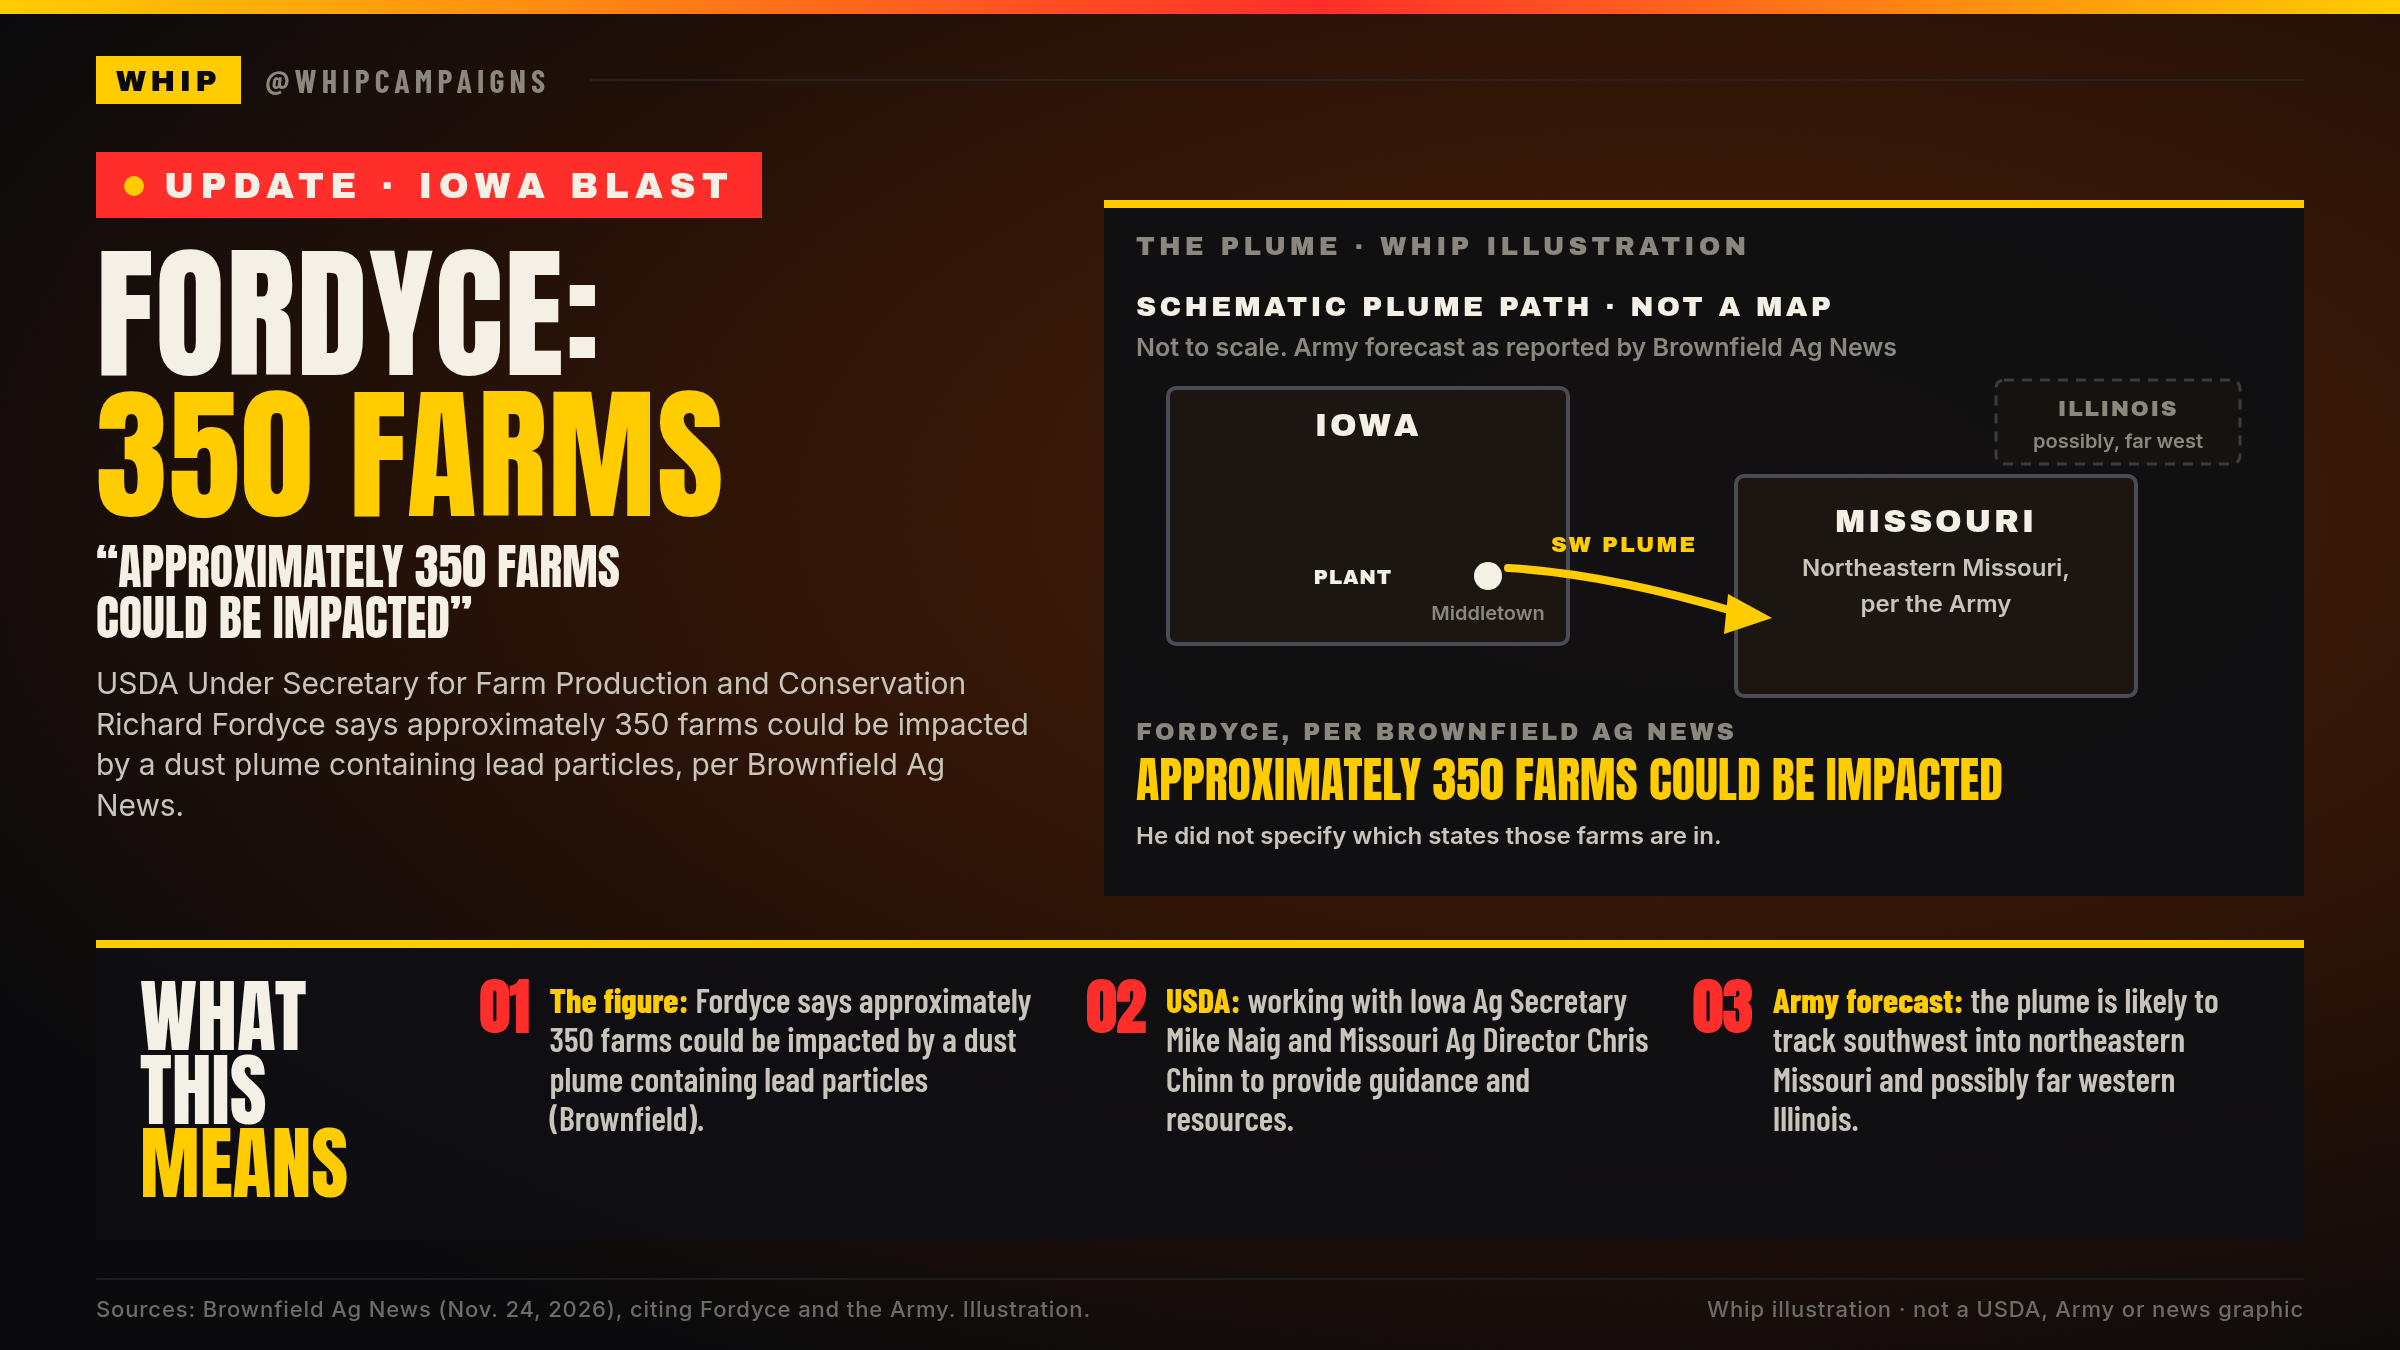
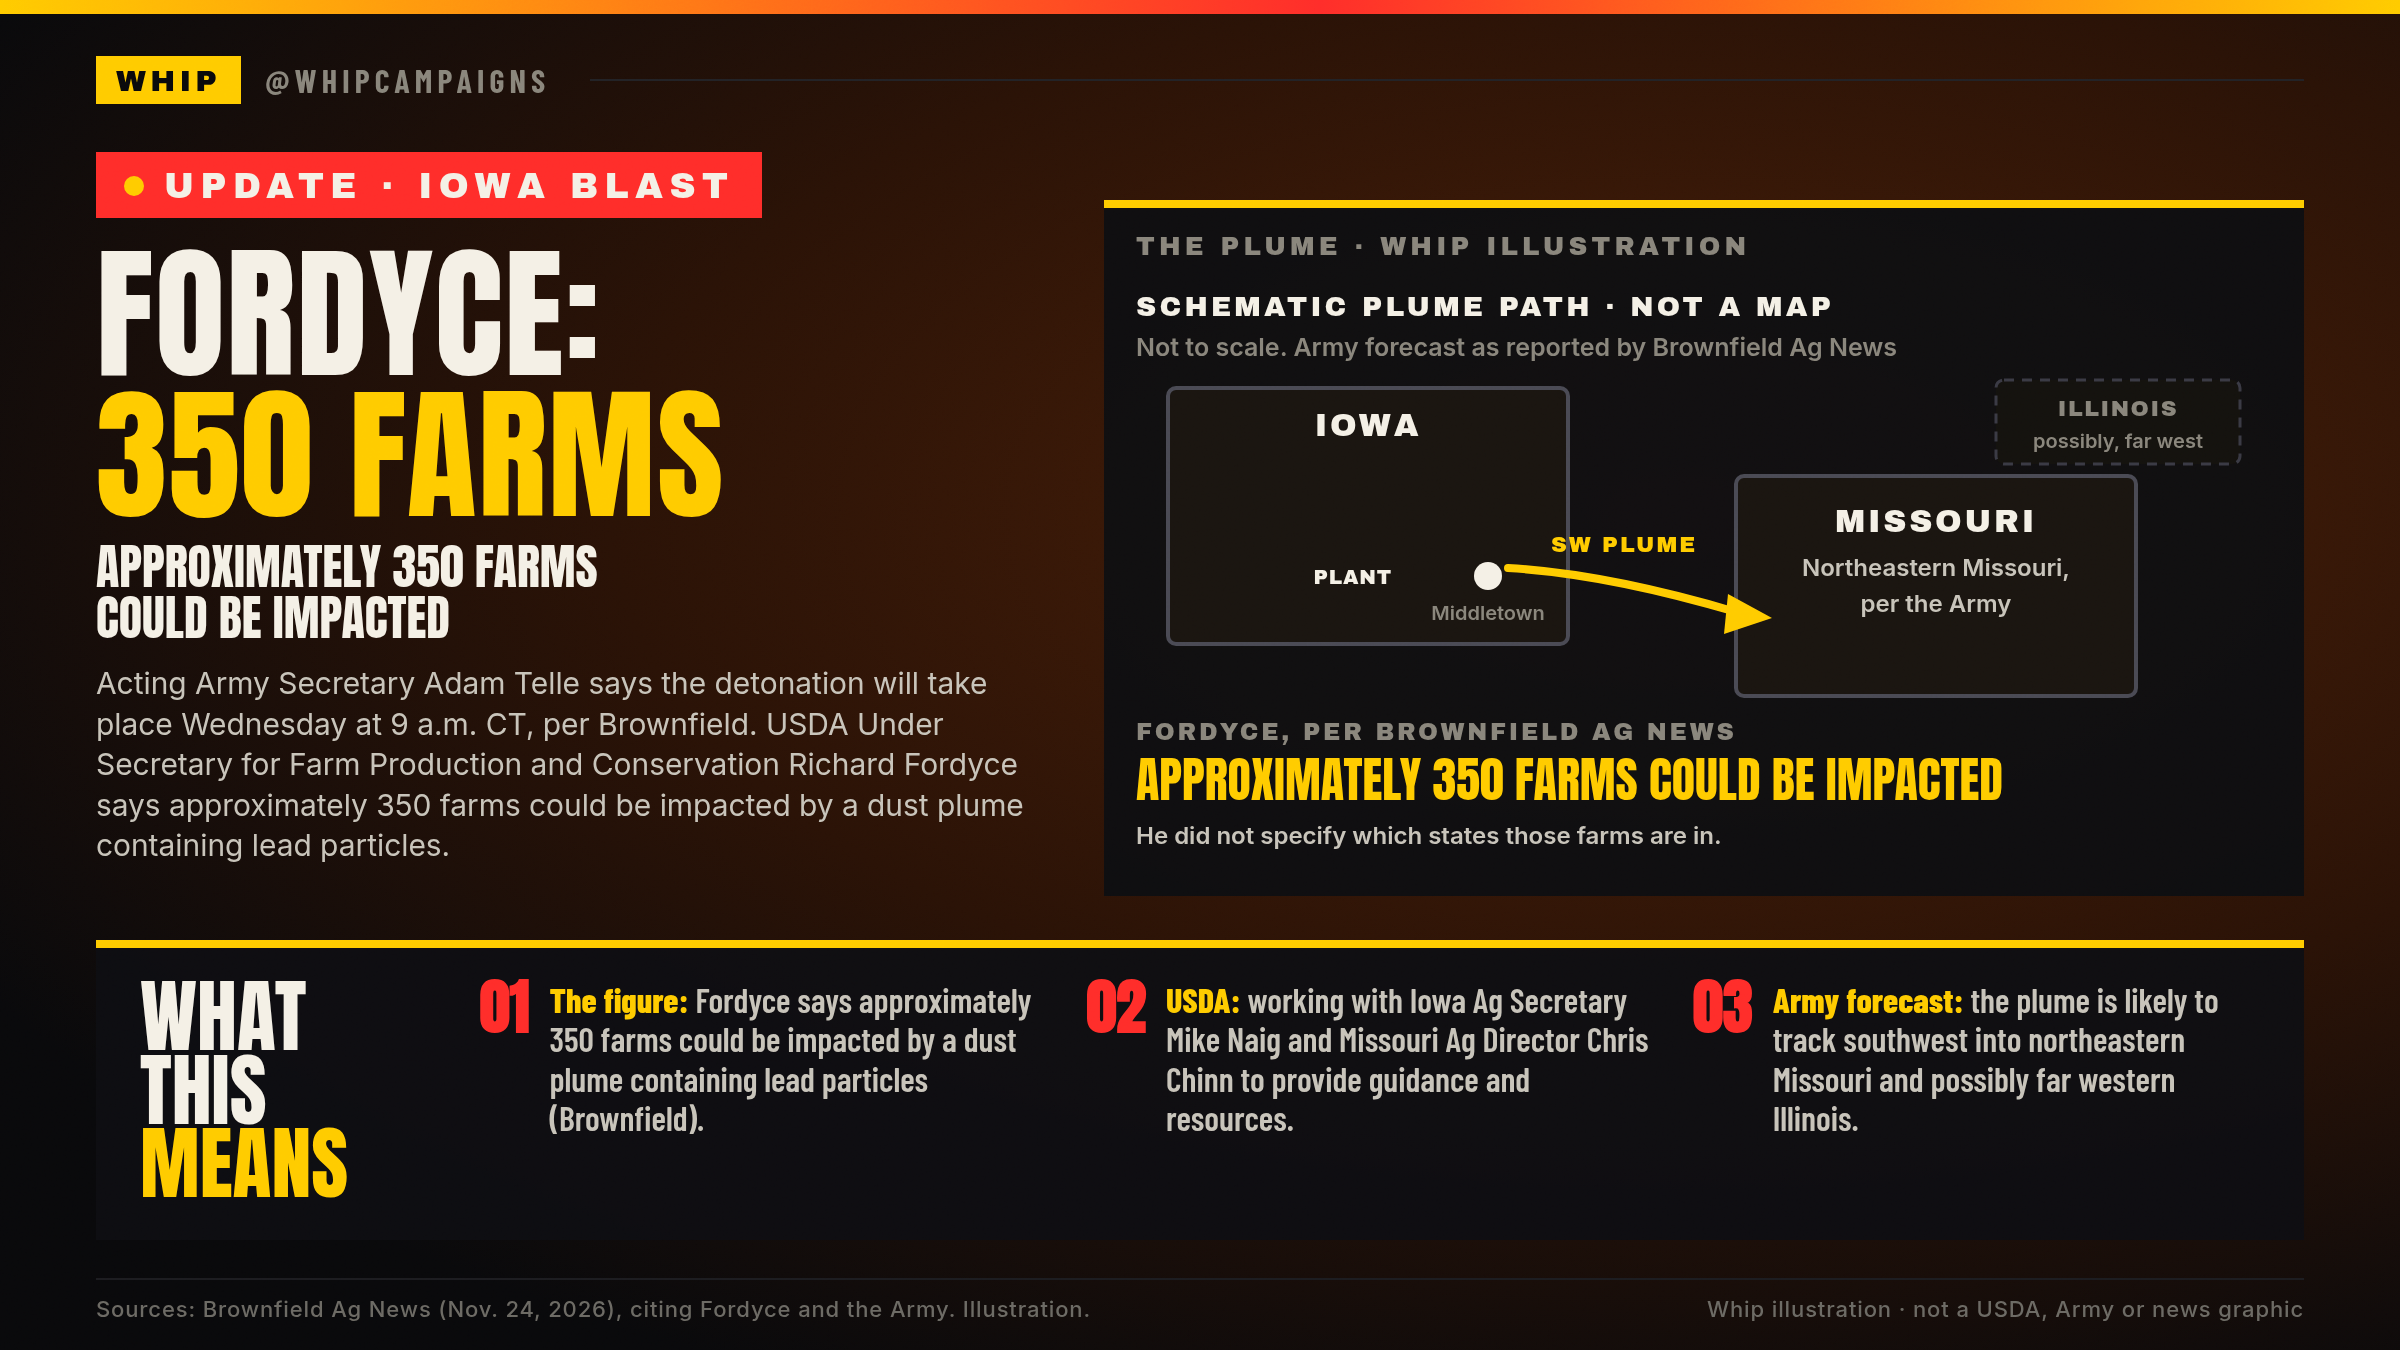
Iowa farms card: drop subhead quotes; add Telle Wednesday 9 a.m. CT line

Changed region(s): [[0.0312, 0.4978, 0.4375, 0.6533], [0.0312, 0.4044, 0.2812, 0.4356]]

diff --git a/breaking/2026-11-24-iowa-farms-fordyce/make_card.py b/breaking/2026-11-24-iowa-farms-fordyce/make_card.py
@@ -1,9 +1,9 @@
 #!/usr/bin/env python3
-"""UPDATE card: USDA Under Secretary Richard Fordyce says approximately 350 farms
-could be impacted by a dust plume containing lead particles (Tue Nov 24, 2026).
-Sources: Brownfield Ag News (Brent Barnett, Nov. 24) for the Fordyce figure and
-USDA coordination with Iowa Ag Secretary Mike Naig and Missouri Ag Director
-Chris Chinn. Army plume-path forecast also from that Brownfield report.
+"""UPDATE card: Fordyce says approximately 350 farms could be impacted; Telle says
+the detonation will take place Wednesday at 9 a.m. (Tue Nov 24, 2026).
+Sources: Brownfield Ag News (Brent Barnett, Nov. 24) for Telle's 9 a.m. Wednesday
+time, the Fordyce figure, and USDA coordination with Iowa Ag Secretary Mike Naig
+and Missouri Ag Director Chris Chinn. Army plume-path forecast also from that report.
 Draft only. Whip illustration; schematic, not a real map or official graphic.
 No Whip scores. No hook. No CBS attribution."""
 import shutil, sys, subprocess
@@ -55,8 +55,8 @@ html = wrap(f"""
 <div class="tag"><span class="dot"></span>UPDATE &middot; IOWA BLAST</div>
 <div class="left">
   <div class="h1">FORDYCE:<br><span class="y">350 FARMS</span></div>
-  <div class="h2">&ldquo;APPROXIMATELY 350 FARMS<br>COULD BE IMPACTED&rdquo;</div>
-  <div class="att">USDA Under Secretary for Farm Production and Conservation Richard Fordyce says approximately 350 farms could be impacted by a dust plume containing lead particles, per Brownfield Ag News.</div>
+  <div class="h2">APPROXIMATELY 350 FARMS<br>COULD BE IMPACTED</div>
+  <div class="att">Acting Army Secretary Adam Telle says the detonation will take place Wednesday at 9 a.m. CT, per Brownfield. USDA Under Secretary for Farm Production and Conservation Richard Fordyce says approximately 350 farms could be impacted by a dust plume containing lead particles.</div>
 </div>
 <div class="panel">
   <div class="ph">THE PLUME &middot; WHIP ILLUSTRATION</div>

diff --git a/breaking/2026-11-24-iowa-farms-fordyce/tweet.md b/breaking/2026-11-24-iowa-farms-fordyce/tweet.md
@@ -1,16 +1,14 @@
-# UPDATE: Fordyce says approximately 350 farms could be impacted (Nov 24, 2026)
+# UPDATE: Telle says Wednesday 9 a.m.; Fordyce says approximately 350 farms could be impacted (Nov 24, 2026)
 
 Draft (not posted). Target: Buffer share-now quote of our 10:11 AM ET Iowa FEMA UPDATE https://x.com/whipcampaigns/status/2125245975039991860 with card.png. No hook. No CBS attribution.
 
-Text (len 277):
+Text (len 244):
 
-UPDATE: USDA Under Secretary for Farm Production and Conservation Richard Fordyce says approximately 350 farms could be impacted by a dust plume containing lead particles, per Brownfield Ag News.
-
-USDA is working with Iowa's Naig and Missouri's Chinn on guidance and resources.
+UPDATE: Acting Army Secretary Adam Telle says Wednesday's 9 a.m. CT detonation will go ahead. USDA Under Secretary Richard Fordyce says approximately 350 farms could be impacted by a dust plume containing lead particles, per Brownfield Ag News.
 
 Sources:
 - Brownfield Ag News, Brent Barnett, Nov. 24, 2026: https://brownfieldagnews.com/news/federal-officials-outline-plans-for-lead-azide-blast-in-iowa/
+  Telle (indirect): "The Acting Secretary of the U.S. Army says the detonation of 68 barrels of lead azide in Iowa will officially take place on Wednesday at 9 a.m." Adam Telle announced this at a Tuesday morning press conference. Brownfield does not say "CT" in that sentence, and "will go ahead" is a paraphrase of "will officially take place."
   Fordyce (indirect): "approximately 350 farms could be impacted by a dust plume containing lead particles."
   Fordyce (direct): "USDA is working closely with Secretary Mike Naig of the Iowa Department of Agriculture and Land Stewardship as well as the Missouri Director of Agriculture, Chris Chinn, to provide guidance and resources to agricultural stakeholders in the area."
-  Army, per Brownfield: detonation Wednesday 9 a.m. at the Iowa Army Ammunition Plant in Middletown; plume "likely to track southwest into northeastern Missouri and possibly parts of far western Illinois."
-- Fordyce title ("Under Secretary for Farm Production and Conservation") confirmed from his June 24, 2026 House Agriculture testimony, not from Brownfield (which says "USDA Under Secretary Richard Fordyce"): https://docs.house.gov/meetings/AG/AG00/20260624/119395/HHRG-119-AG00-Wstate-FordyceR-20260624.pdf
+  Army, per Brownfield: detonation at the Iowa Army Ammunition Plant in Middletown; plume "likely to track southwest into northeastern Missouri and possibly parts of far western Illinois."
